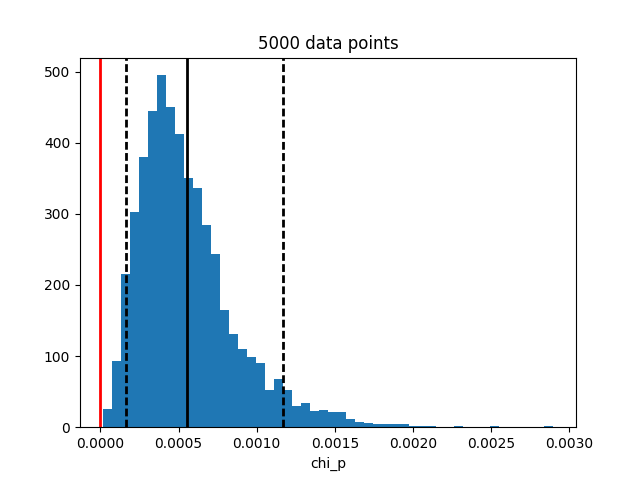
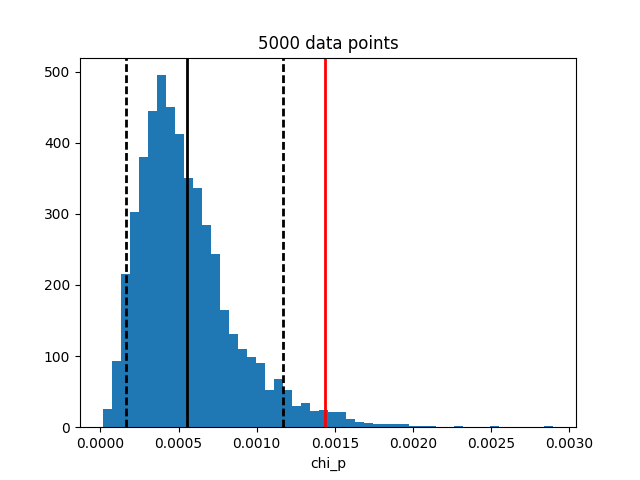
Fixed bugs, injected derived paramters should work now plsssss

Changed region(s): [[0.5, 0.125, 0.5312, 0.875]]

diff --git a/Inference/postMulti.py b/Inference/postMulti.py
@@ -88,7 +88,7 @@ def chi_effect():
    chi_eff=(s1_z/m1+s2_z/m2)/M
    return chi_eff
 
-def chi_p():
+def chi_prec():
    ## chi_p is given by (1/B1m1^2)*max(B1*S1perp,B2*S2perp)
    ## with B1=2+3/2q, B2=2+3q/2
    ## so we need m1, q, s1_a, s1_polar, s2_a, s2_polar
@@ -161,8 +161,9 @@ def plotPosterior(parameter):
       injected_value=chi_eff
 
    elif parameter=="chi_p":
-      parameter_values=chi_p()
+      parameter_values=chi_prec()
       ## Derive injected value
+      mchirp=injected["mchirp"]
       q=injected["q"]
       q=1./q ## <-- flip again, this is gonna get boring
 
@@ -178,7 +179,7 @@ def plotPosterior(parameter):
       B1=2.+(3./(2.*q))
       B2=2.+((3.*q)/2.)
 
-      chi_p=(1./(B1*m1*m1))*max((B1*s1_per,B2*s2_per)
+      chi_p=(1./(B1*m1*m1))*max((B1*s1_per,B2*s2_per))
       injected_value=chi_p
 
    elif parameter=="q":
